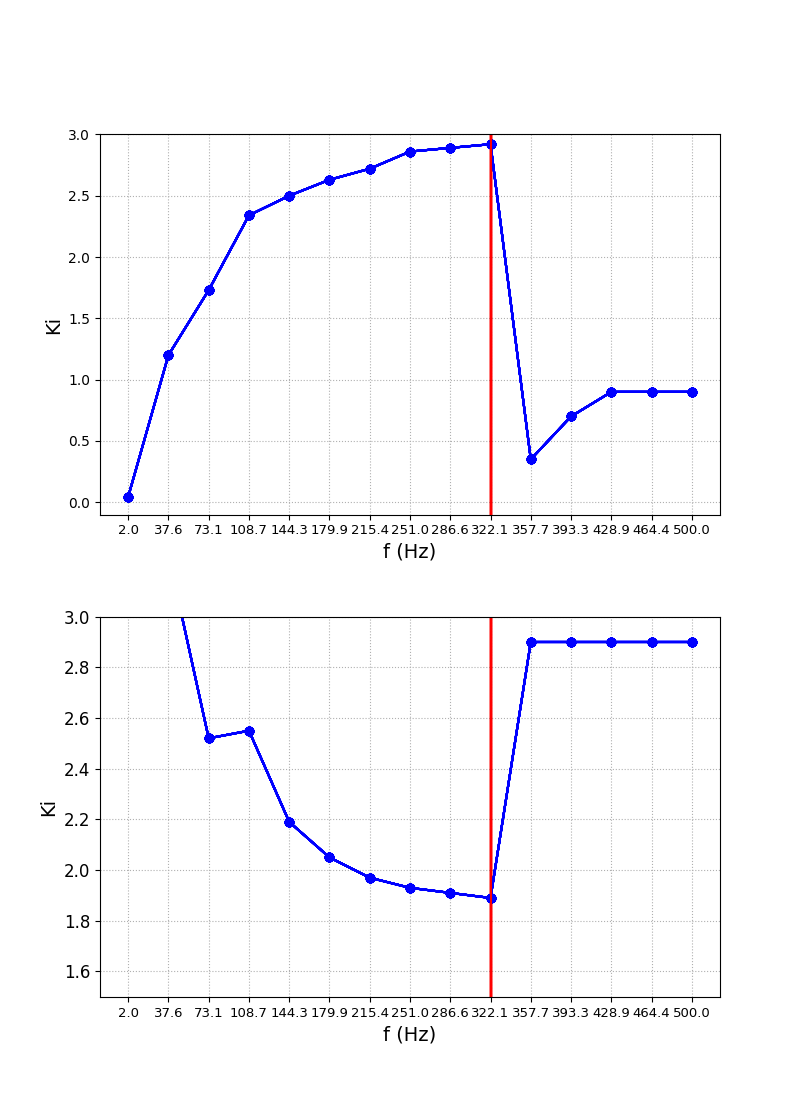
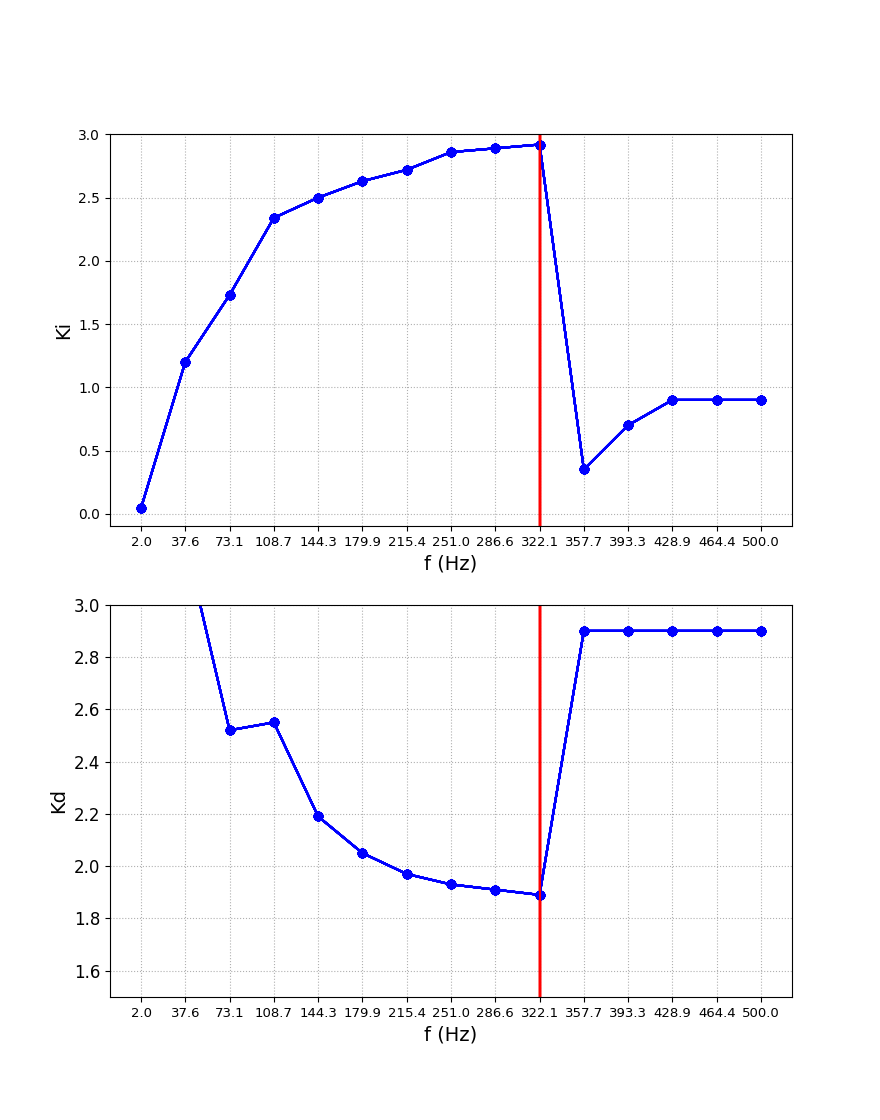
_

diff --git a/Report/Pic/Result_Plot.py b/Report/Pic/Result_Plot.py
@@ -561,7 +561,7 @@ Kd = np.array([1000, 3.243, 2.52, 2.55, 2.19, 2.05, 1.97, 1.93, 1.91, 1.89, 2.9,
 
 
 # Ki变化趋势的分析：
-fig=plt.figure(figsize=[10*0.8,14*0.8])
+fig=plt.figure(figsize=[11*0.8,14*0.8])
 for i in range(len(f_test)):
     plt.subplot(2,1,1)
     plt.plot(f_test,Ki,marker="o",color="b")
@@ -585,7 +585,7 @@ for i in range(len(f_test)):
     my_x_ticks = np.array(f_test)
     plt.xticks(my_x_ticks,fontsize="9.5")
     plt.yticks(fontsize="12")
-    plt.ylabel("Ki",fontsize="14")
+    plt.ylabel("Kd",fontsize="14")
     plt.xlabel("f (Hz)",fontsize="14")
     plt.grid(linestyle=":")
 plt.show()
